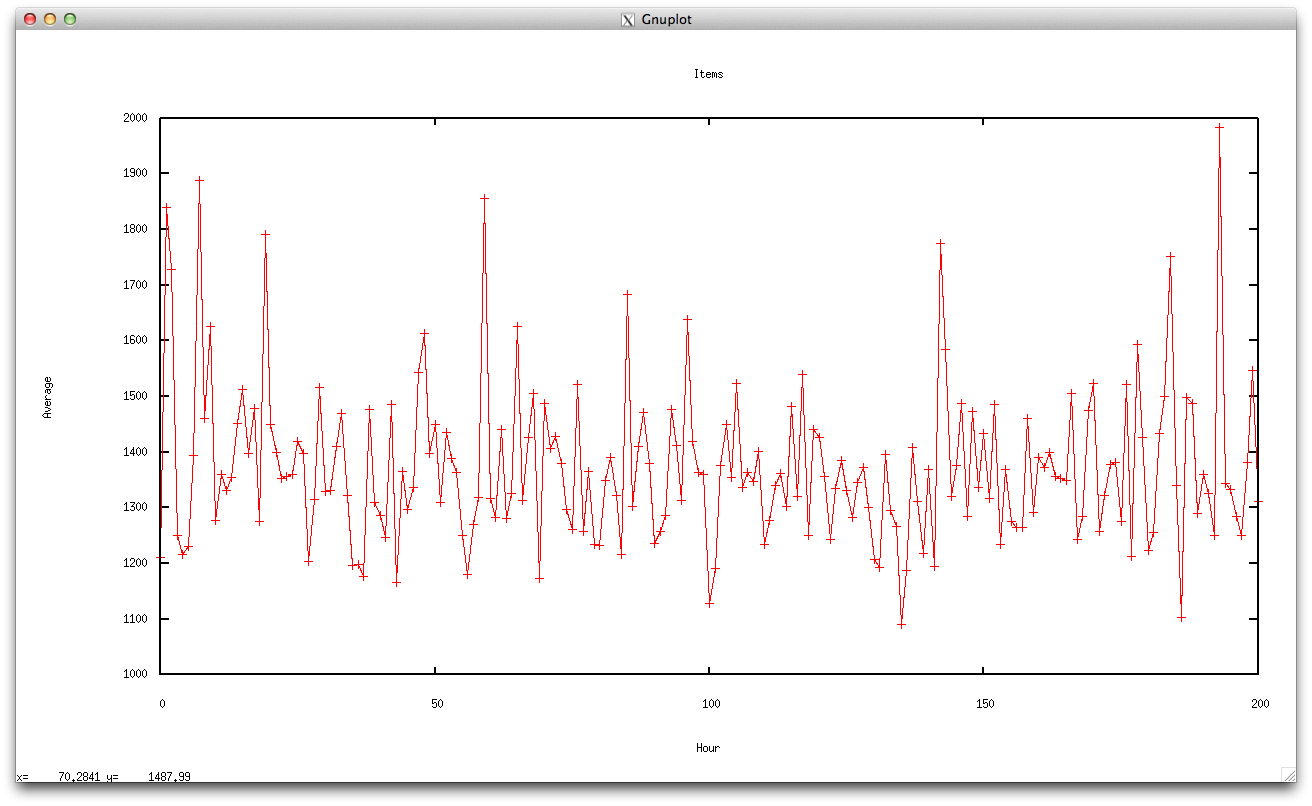
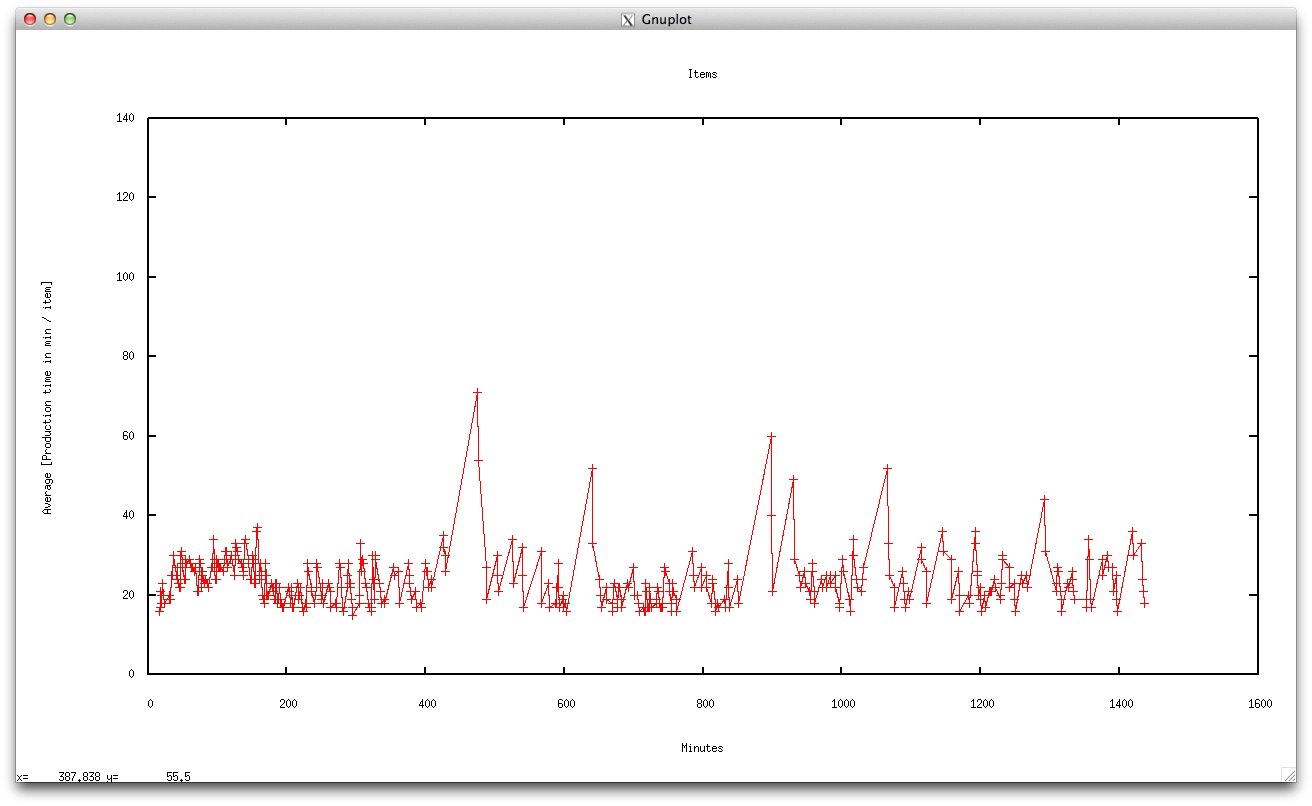
Update images

diff --git a/simulation.rb b/simulation.rb
@@ -94,13 +94,13 @@ items = result[:items]
 
 class R < Struct.new(:amount, :total_time)
   def average
-    total_time / amount
+    ((total_time / amount.to_f) / 60.0).round
   end
 end
 
 start_time = items.first.created_at
 a = items.inject({}) do |result, item|
-  key = ((item.done_at.to_i - start_time.to_i) / (60 * 60.0)).round
+  key = ((item.done_at.to_i - start_time.to_i) / (60.0)).round
   result[key] ||= R.new(0, 0)
   result[key].total_time += item.production_time
   result[key].amount += 1
@@ -109,10 +109,10 @@ end
 
 Gnuplot.open do |gp|
   Gnuplot::Plot.new( gp ) do |plot|
-  
+    plot.yrange "[0:140]"
     plot.title  "Items"
-    plot.xlabel "Hour"
-    plot.ylabel "Average"
+    plot.xlabel "Minutes"
+    plot.ylabel "Average [Production time in min / item]"
     
     x = a.keys
     y = a.values.map(&:average)

diff --git a/resources/README.md b/resources/README.md
@@ -2,7 +2,7 @@
 
 Max buffers, minimum amount of machines
 
-`ruby simulation.rb --runtime 200 --quiet 1 --buffers 100,100,100 --im 4 --dye 2 --sputt 2 --lac 2 --print 2`
+`ruby simulation.rb --runtime 24 --quiet 1 --buffers 100,100,100 --im 4 --dye 2 --sputt 2 --lac 2 --print 2`
 
 ![1](1.png)
 
@@ -10,7 +10,7 @@ Max buffers, minimum amount of machines
 
 Max buffers, maximum amount of machines
 
-`ruby simulation.rb --runtime 200 --quiet 1 --buffers 100,100,100 --im 12 --dye 6 --sputt 6 --lac 6 --print 6`
+`ruby simulation.rb --runtime 24 --quiet 1 --buffers 100,100,100 --im 12 --dye 6 --sputt 6 --lac 6 --print 6`
 
 ![2](2.png)
 
@@ -18,7 +18,7 @@ Max buffers, maximum amount of machines
 
 Min buffers, minimum amount of machines
 
-`ruby simulation.rb --runtime 200 --quiet 1 --buffers 20,20,20 --im 4 --dye 2 --sputt 2 --lac 2 --print 2`
+`ruby simulation.rb --runtime 24 --quiet 1 --buffers 20,20,20 --im 4 --dye 2 --sputt 2 --lac 2 --print 2`
 
 ![3](3.png)
 
